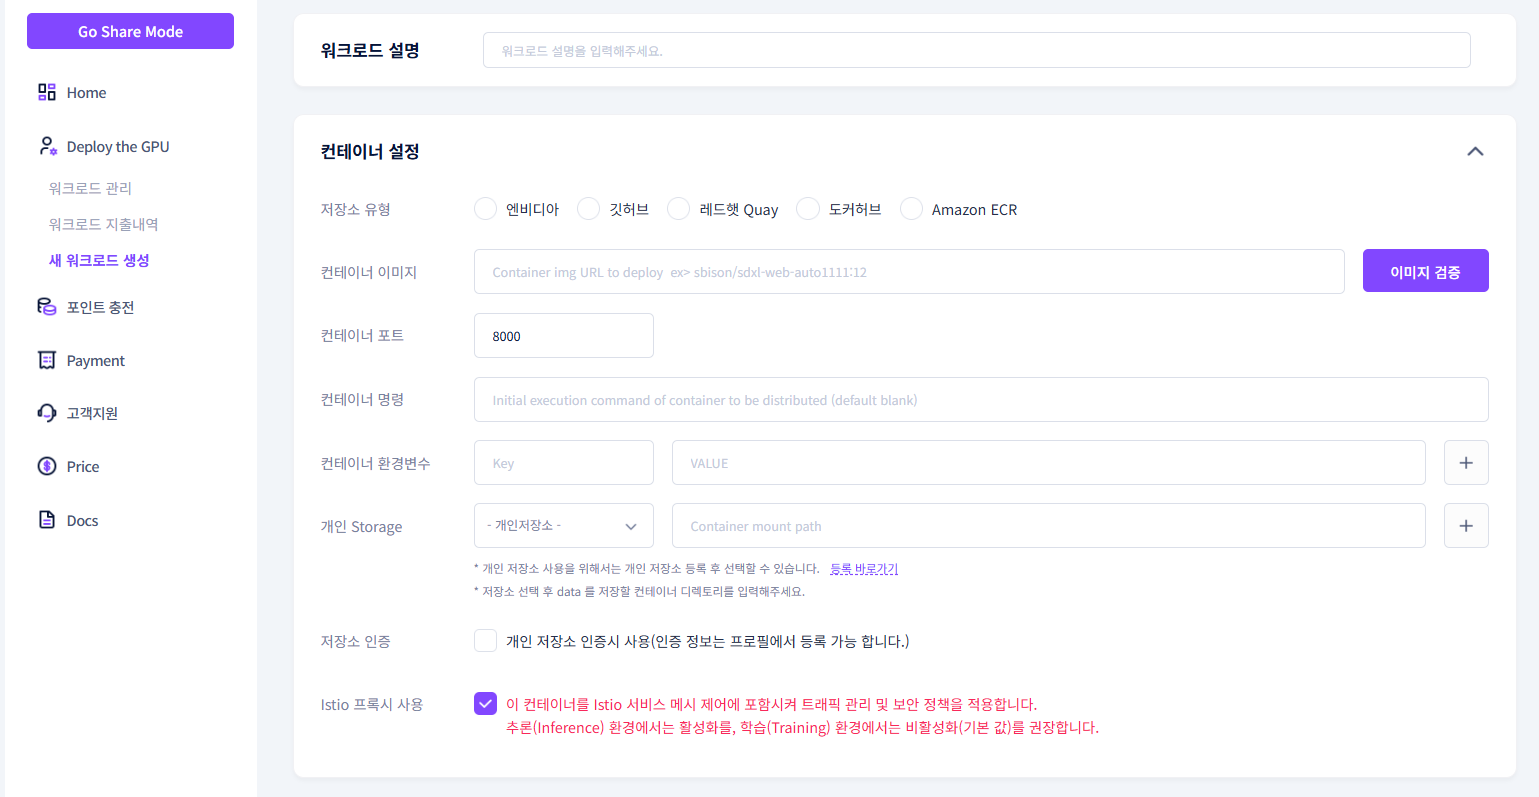
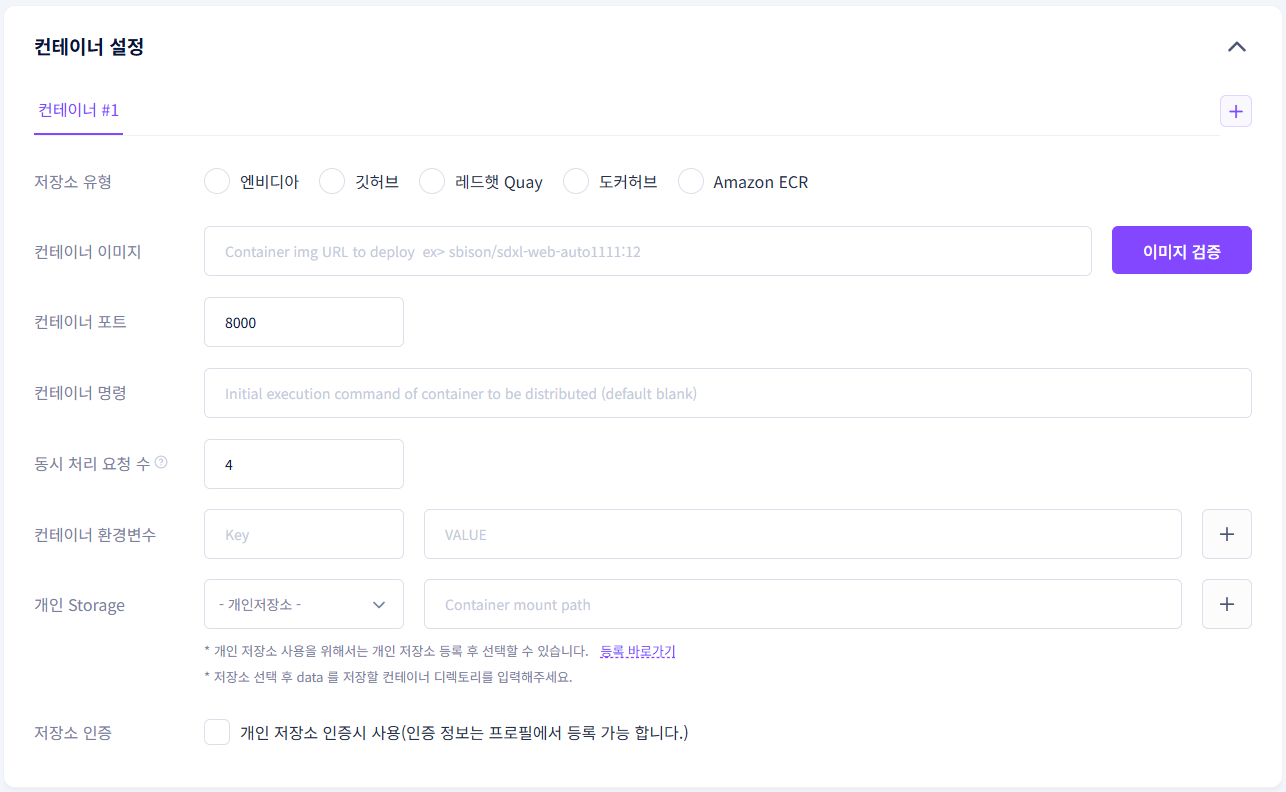
워크로드 설정 내 명칭 수정

diff --git a/docs/user-guide/workload/register-new-workload.en.md b/docs/user-guide/workload/register-new-workload.en.md
@@ -14,11 +14,12 @@ To utilize Gcube’s GPU resources, you must complete the 'Register New Workload
 
 ### **컨테이너**
 
-![Registering_a_New_Workload_20260105_03.jpg](img.en/Register-new-workload/Registering_a_New_Workload_20260105_03.jpg)
+![Registering_a_New_Workload_20260105_03.jpg](img.en/Register-new-workload/Registering_a_New_Workload_20260105_03.png)
 
 - **Storage Type:** Select the platform where your container image is stored.
 - **Container Image:** Enter the container image URL, referring to the input format for each storage type provided below.
 - **Container Port:** The network port used by the container. This will be automatically populated during image verification.
+- **Max Concurrent Connections:** The number of HTTP requests or connections that can be delivered to the service at once.
 
 ```markdown
 === "Docker Hub"

diff --git a/docs/user-guide/workload/register-new-workload.ko.md b/docs/user-guide/workload/register-new-workload.ko.md
@@ -19,6 +19,7 @@ gcube의 GPU 자원을 사용하기 위해, ‘새 워크로드 등록’이 필
 - **저장소 유형**: 컨테이너 이미지가 저장된 플랫폼을 선택하세요.
 - **컨테이너 이미지**: 아래 저장소별 이미지 입력 형식을 참고하여 컨테이너 이미지 URL을 입력하세요.
 - **컨테이너 포트** : 컨테이너에서 사용하는 네트워크 포트입니다. 이미지 검증 시 자동으로 입력됩니다.
+- **동시 처리 요청 수** : 서비스가 동시에 처리할 수 있는 요청 수를 설정합니다.
 
 ```markdown
 === "Docker Hub"
